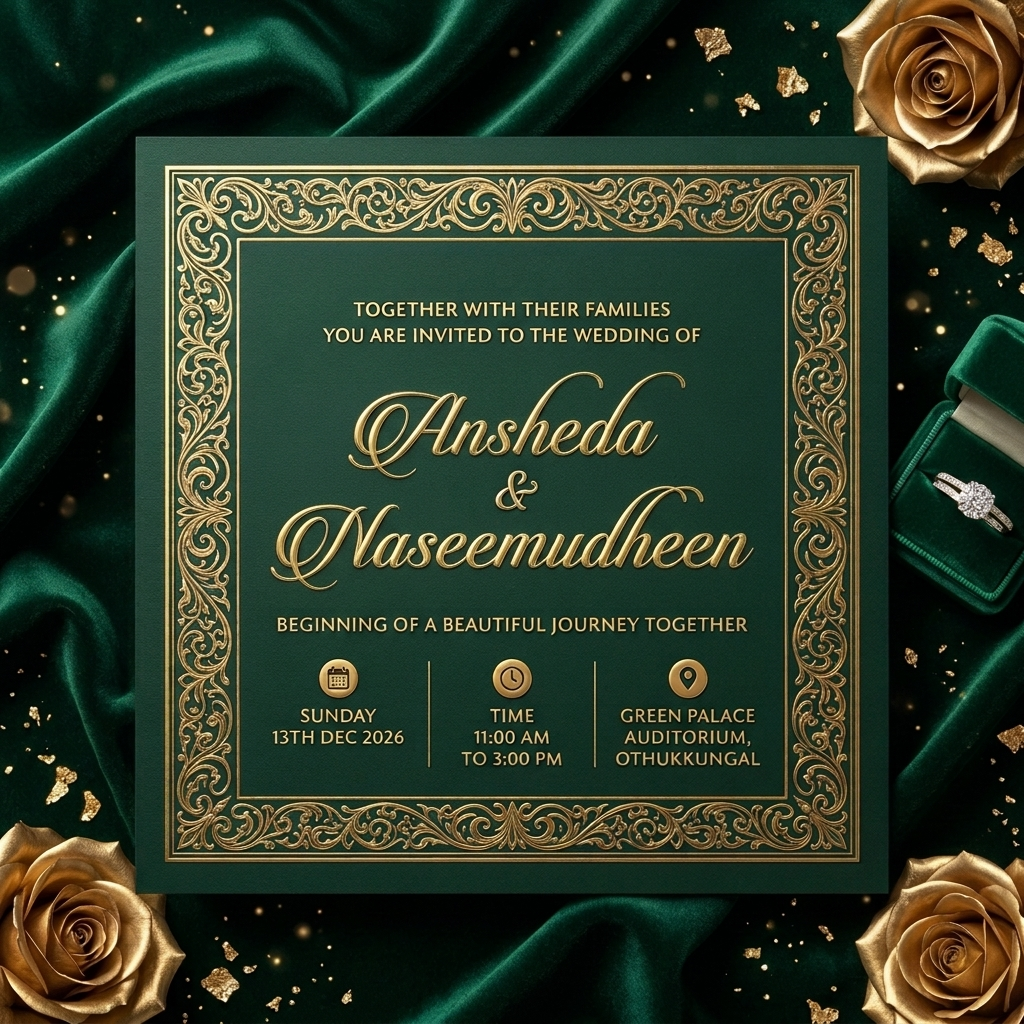
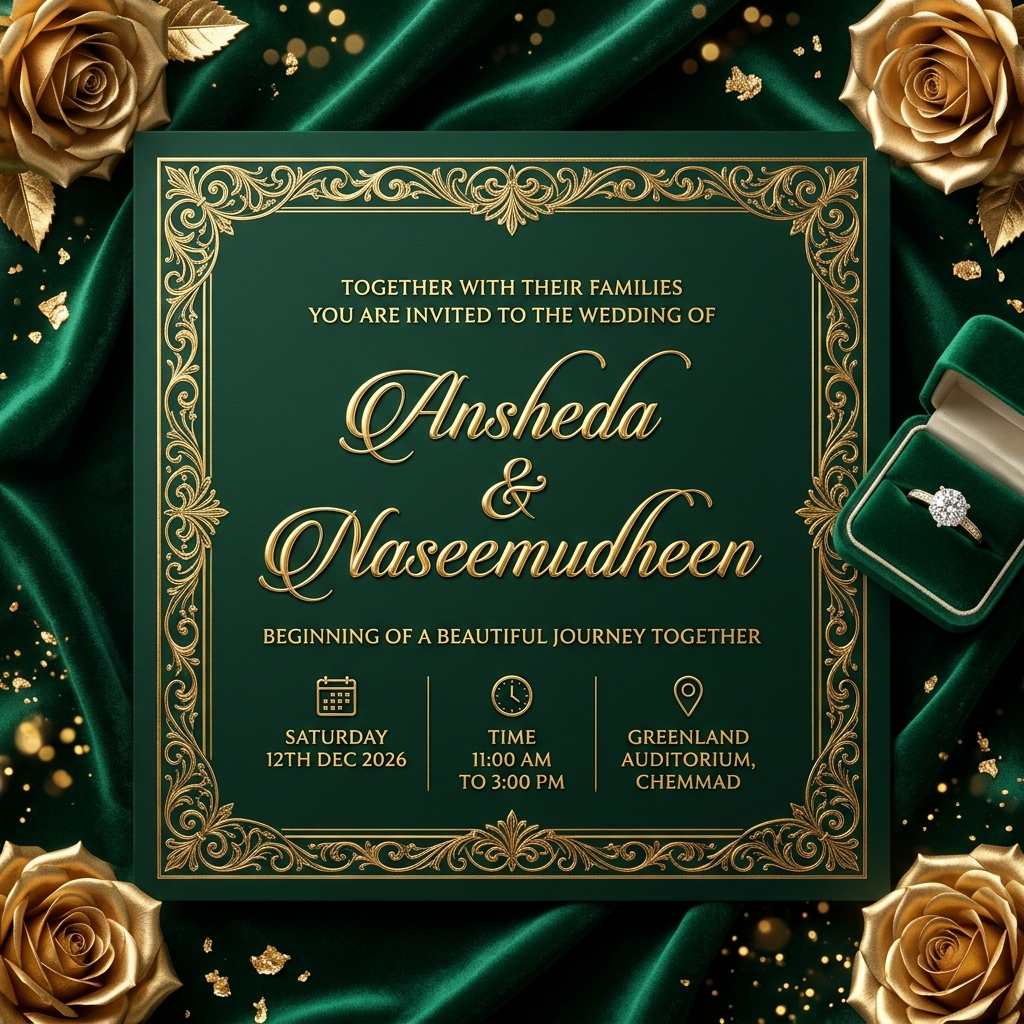
fix(event): update event date to Saturday 12th Dec 2026 and venue to Greenland Chemmad

diff --git a/index.html b/index.html
@@ -7,9 +7,9 @@
     
     <!-- Open Graph / WhatsApp / Facebook Meta Tags -->
     <meta property="og:title" content="Ansheda & Naseemudheen - Wedding Invitation" />
-    <meta property="og:description" content="With joyous hearts, we invite you to celebrate the union of Ansheda & Naseemudheen on Sunday, December 13, 2026 at Green Palace Auditorium, Othukkungal. Join us for our wedding celebration." />
-    <meta property="og:image" content="https://ansheda-weds-naseem.vercel.app/og-image.png?v=1" />
-    <meta property="og:image:secure_url" content="https://ansheda-weds-naseem.vercel.app/og-image.png?v=1" />
+    <meta property="og:description" content="With joyous hearts, we invite you to celebrate the union of Ansheda & Naseemudheen on Saturday, December 12, 2026 at Greenland Auditorium, Chemmad. Join us for our wedding celebration." />
+    <meta property="og:image" content="https://ansheda-weds-naseem.vercel.app/og-image.png?v=2" />
+    <meta property="og:image:secure_url" content="https://ansheda-weds-naseem.vercel.app/og-image.png?v=2" />
     <meta property="og:image:type" content="image/png" />
     <meta property="og:image:width" content="1024" />
     <meta property="og:image:height" content="1024" />
@@ -20,8 +20,8 @@
     <!-- Twitter Meta Tags -->
     <meta name="twitter:card" content="summary_large_image" />
     <meta name="twitter:title" content="Ansheda & Naseemudheen - Wedding Invitation" />
-    <meta name="twitter:description" content="With joyous hearts, we invite you to celebrate the union of Ansheda & Naseemudheen on Sunday, December 13, 2026 at Green Palace Auditorium, Othukkungal. Join us for our wedding celebration." />
-    <meta name="twitter:image" content="https://ansheda-weds-naseem.vercel.app/og-image.png?v=1" />
+    <meta name="twitter:description" content="With joyous hearts, we invite you to celebrate the union of Ansheda & Naseemudheen on Saturday, December 12, 2026 at Greenland Auditorium, Chemmad. Join us for our wedding celebration." />
+    <meta name="twitter:image" content="https://ansheda-weds-naseem.vercel.app/og-image.png?v=2" />
     
     <!-- Web App Manifest / Theme -->
     <meta name="apple-mobile-web-app-capable" content="yes" />

diff --git a/src/components/Events.jsx b/src/components/Events.jsx
@@ -26,7 +26,7 @@ const EventCard = ({ title, date, time, venue, address, mapLink, delay }) => (
         <div>
           <p className="text-xs sm:text-sm text-gold-600 uppercase tracking-widest font-bold">Date</p>
           <p className="font-serif text-lg sm:text-xl md:text-2xl text-cream-100 font-bold leading-snug">{date}</p>
-          <p className="text-sm sm:text-base text-gold-600 font-serif italic font-medium mt-0.5">4 Rajab 1448 AH</p>
+          <p className="text-sm sm:text-base text-gold-600 font-serif italic font-medium mt-0.5">3 Rajab 1448 AH</p>
         </div>
       </div>
       
@@ -102,11 +102,11 @@ const Events = () => {
           <div className="w-full">
             <EventCard 
               title="Wedding Reception"
-              date="Sunday, 13th December 2026"
+              date="Saturday, 12th December 2026"
               time="11:00 AM to 3:00 PM"
-              venue="Green Palace Auditorium"
-              address="Othukkungal"
-              mapLink="https://maps.app.goo.gl/hUHXXzxFMCqLAF4v9"
+              venue="Greenland Auditorium"
+              address="Chemmad"
+              mapLink="https://www.google.com/maps/search/?api=1&query=Greenland+Auditorium+Chemmad"
               delay={0.2}
             />
           </div>

diff --git a/src/components/Hero.jsx b/src/components/Hero.jsx
@@ -192,9 +192,9 @@ const Hero = () => {
         whileTap={{ scale: 0.95 }}
         href={`https://calendar.google.com/calendar/render?action=TEMPLATE&text=${encodeURIComponent(
           'Ansheda weds Naseemudheen - Wedding Reception'
-        )}&dates=20261213T053000Z/20261213T093000Z&details=${encodeURIComponent(
-          'With joyous hearts, we invite you to celebrate the wedding reception of Ansheda & Naseemudheen on December 13th, 2026 at Green Palace Auditorium, Othukkungal.\n\nLocation: https://maps.app.goo.gl/hUHXXzxFMCqLAF4v9'
-        )}&location=${encodeURIComponent('Green Palace Auditorium, Othukkungal')}`}
+        )}&dates=20261212T053000Z/20261212T093000Z&details=${encodeURIComponent(
+          'With joyous hearts, we invite you to celebrate the wedding reception of Ansheda & Naseemudheen on Saturday, December 12th, 2026 at Greenland Auditorium, Chemmad.\n\nLocation: https://www.google.com/maps/search/?api=1&query=Greenland+Auditorium+Chemmad'
+        )}&location=${encodeURIComponent('Greenland Auditorium, Chemmad')}`}
         target="_blank"
         rel="noopener noreferrer"
         aria-label="Add to Calendar"

diff --git a/README.md b/README.md
@@ -3,9 +3,9 @@
 A digital wedding invitation web application celebrating the union of Ansheda and Naseemudheen.
 
 ## Wedding Details
-- **Date:** Sunday, 13th December 2026
+- **Date:** Saturday, 12th December 2026
 - **Time:** 11:00 AM to 3:00 PM
-- **Venue:** Green Palace Auditorium, Othukkungal
+- **Venue:** Greenland Auditorium, Chemmad
 
 ## Features
 - **Light Luxury Theme:** Refined ivory, champagne, and antique gold styling.
